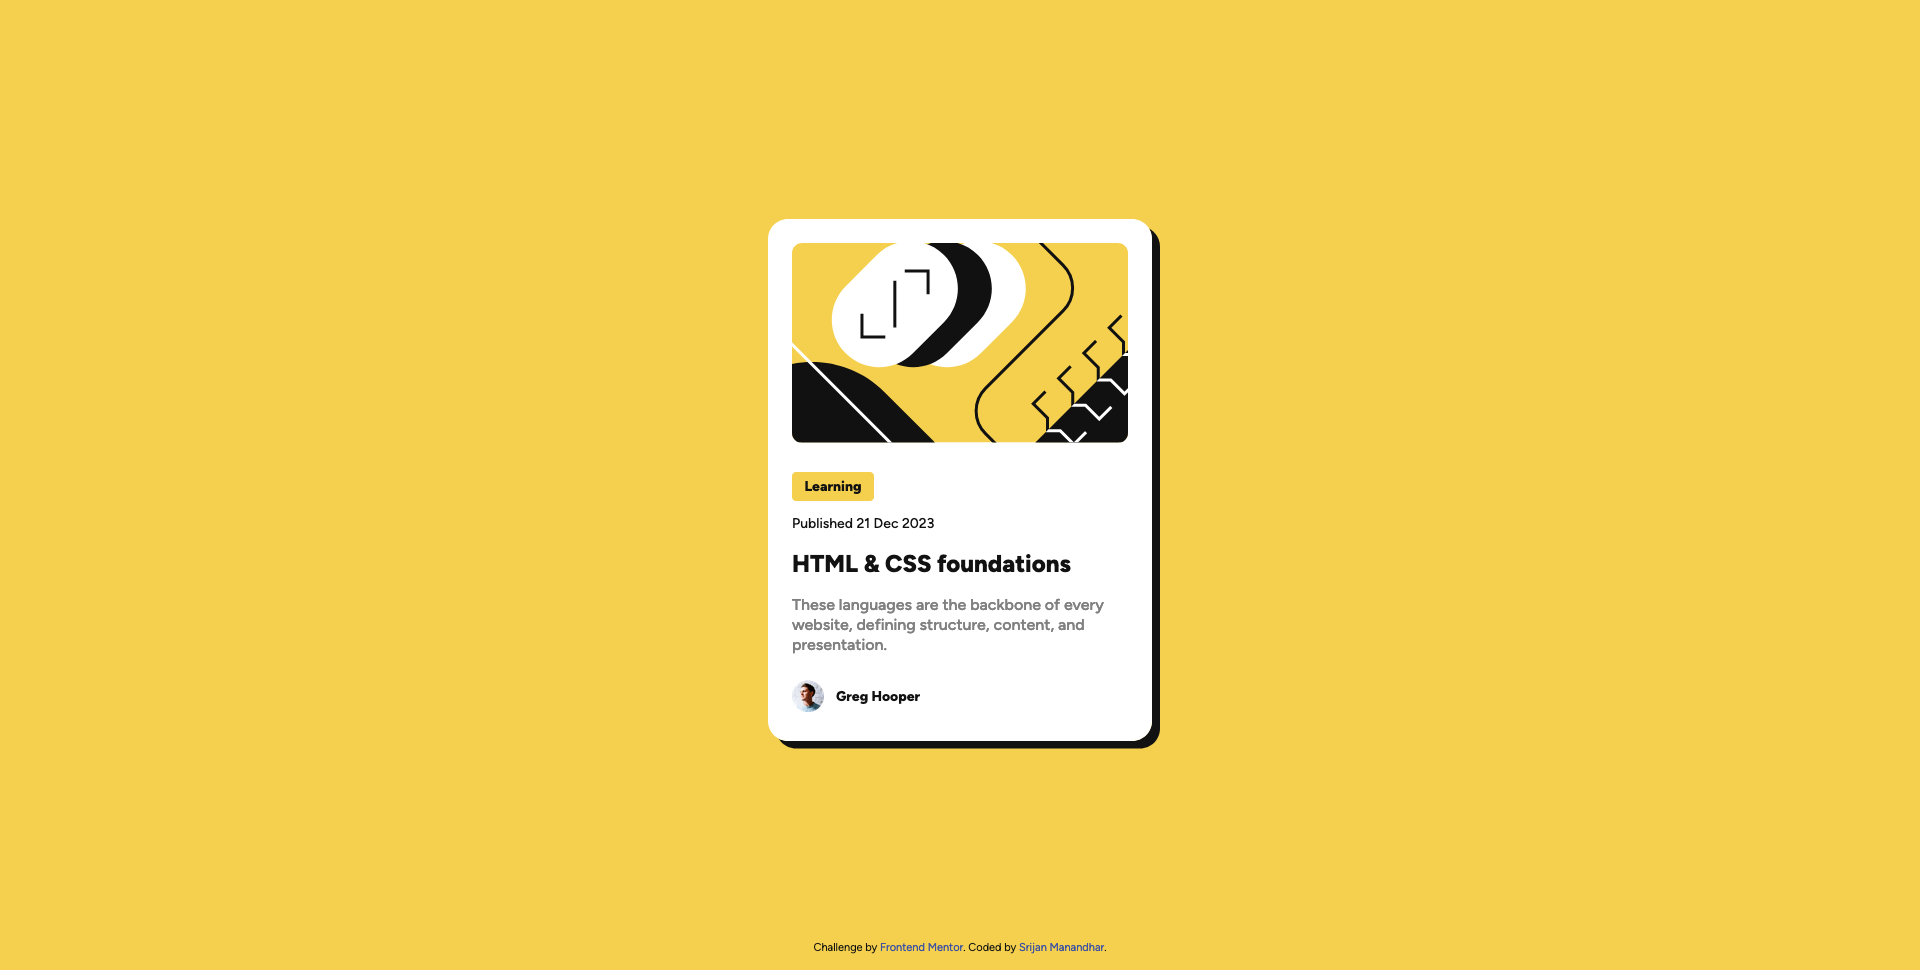
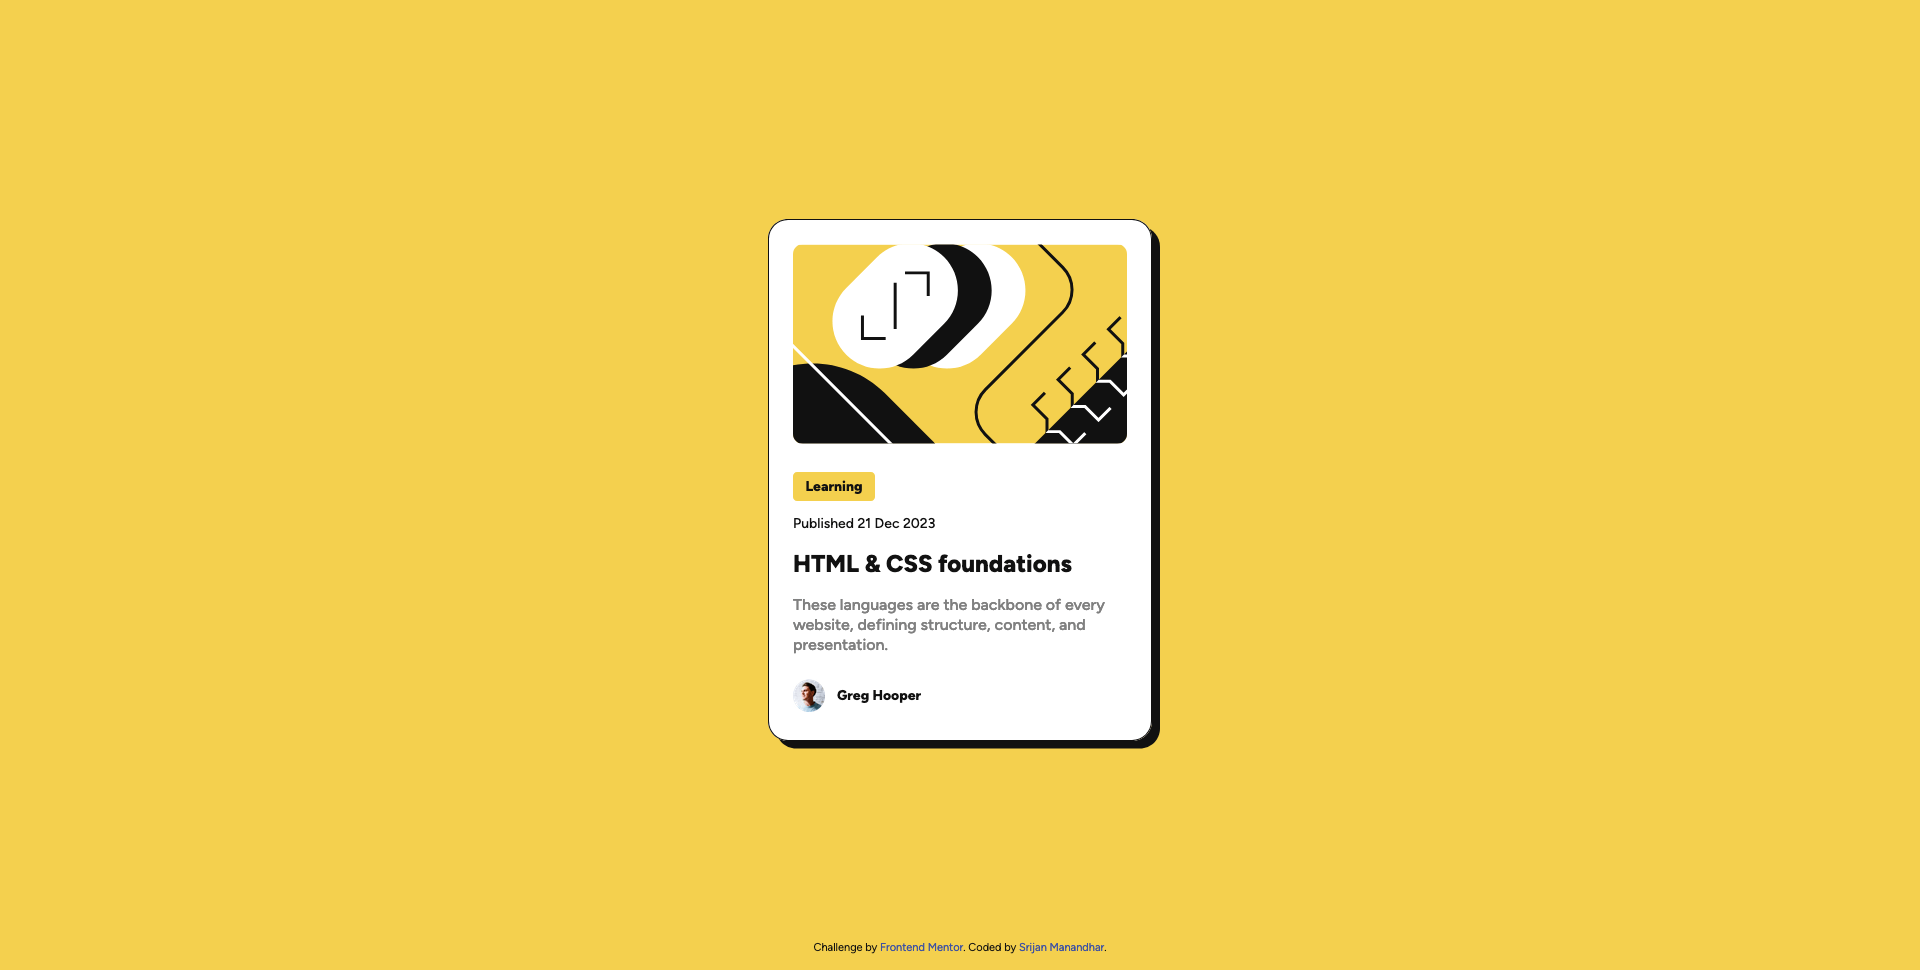
Update styles.css with border and grid-template-columns

diff --git a/styles.css b/styles.css
@@ -59,6 +59,7 @@ main {
   display: grid;
   grid-gap: 24px;
   cursor: pointer;
+  border: 1px solid var(--black-color);
 }
 .blog-preview-card:hover {
   box-shadow: 16px 16px 0 0 var(--black-color);
@@ -108,10 +109,9 @@ main {
   color: var(--gray-color);
 }
 .author {
-  width: 129px;
   height: 32px;
   display: grid;
-  grid-template-columns: 32px 1fr;
+  grid-template-columns: 32px auto;
   grid-gap: 12px;
   align-items: center;
 }
